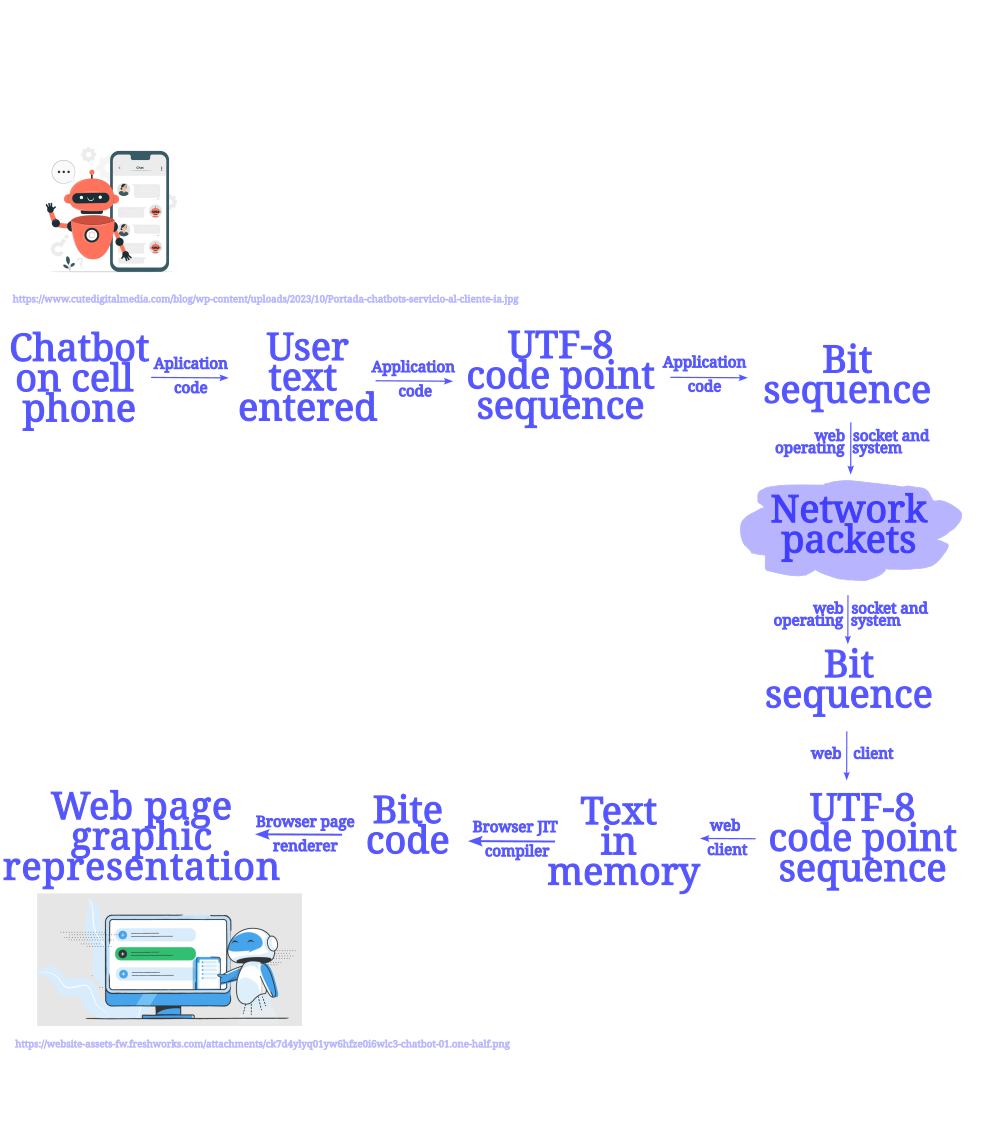
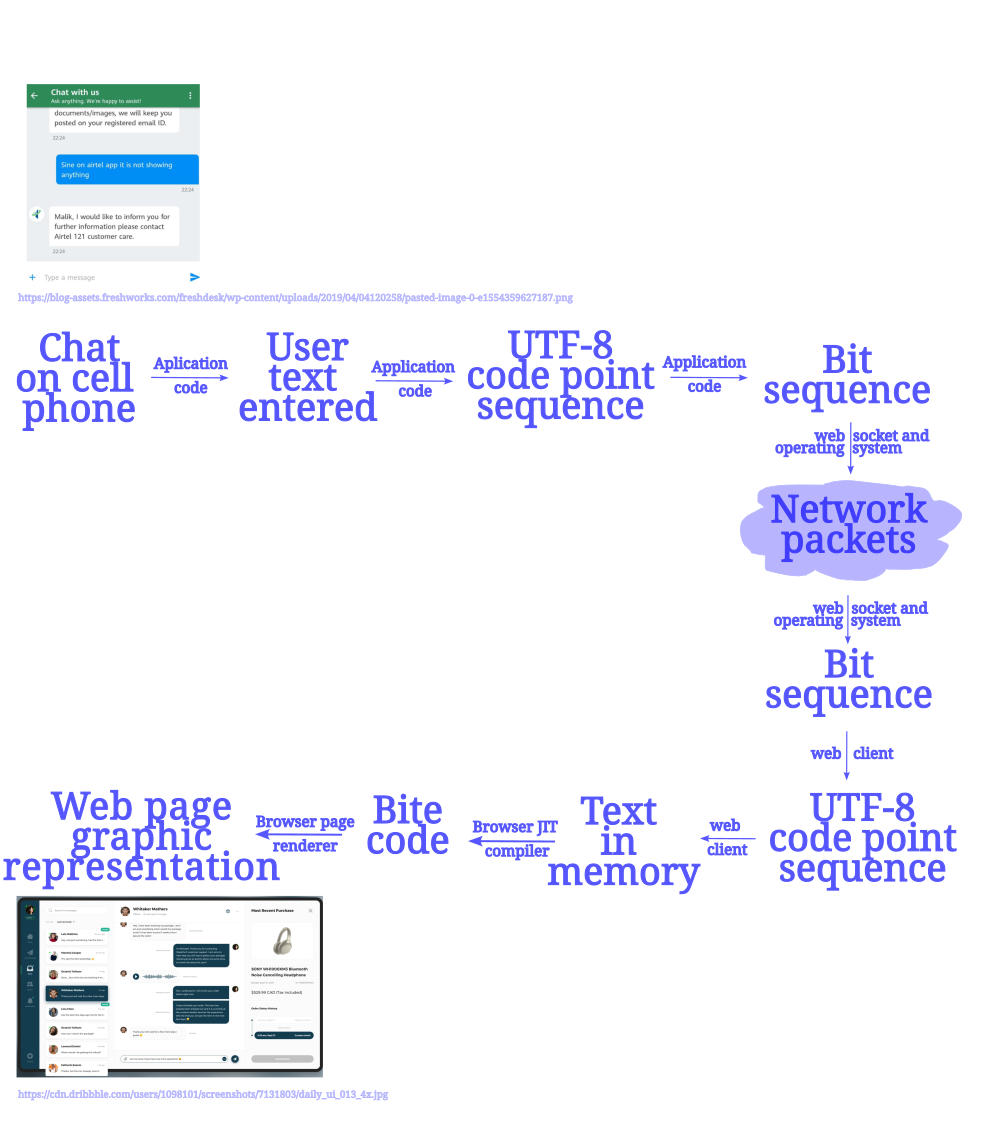
fix(text-journey) chat app instead of chat bot app

Changed region(s): [[0.0, 0.7792, 0.4935, 0.9973], [0.0, 0.0623, 0.5552, 0.3428]]

diff --git a/_site/posts/HowToWriteAnyLanguage/index.html b/_site/posts/HowToWriteAnyLanguage/index.html
@@ -253,11 +253,11 @@ div.csl-indent {
 <p>The text encodings address the challenge of writing effectively in binary. Text consists of a sequence of characters, usually stored in contiguous memory. The encoding schema must also address the identification of character boundaries when all the program sees is endless zeros and ones.</p>
 <section id="a-journey-from-text-to-bits-and-back" class="level3">
 <h3 class="anchored" data-anchor-id="a-journey-from-text-to-bits-and-back">A Journey from text to bits and back</h3>
-<p>To illustrate the modern context in which we process text let’s consider a chat bot application in a mobile device, see the Figure 2 below. Text is entered on the mobile device through a virtual keyboard, rendered on screen, transformed ultimately into a byte stream with an UTF-8 encoding and sent through the wire/air using Internet protocols. On the receiving end, the bytes of zeros and ones are decoded into UTF-8, further transformed if necessary, interpreted using the indicated language and then displayed on the computer screen of the Browser used by the Customer Support agent to interact with the customer.</p>
+<p>To illustrate the modern context in which we process text let’s consider a chat application for customer support in a mobile device, see the Figure 2 below. Text is entered on the mobile device through a virtual keyboard, rendered on screen, transformed ultimately into a byte stream with an UTF-8 encoding and sent through the wire/air using Internet protocols. On the receiving end, the bytes of zeros and ones are decoded into UTF-8, further transformed if necessary, interpreted using the indicated language and then displayed on the computer screen of the Browser used by the Customer Support agent to interact with the customer.</p>
 <div class="quarto-figure quarto-figure-center">
 <figure class="figure">
 <p><img src="text_journey.png" class="img-fluid figure-img"></p>
-<figcaption class="figure-caption">Figure 2. The journey of a text message entered in a chat bot application in a mobile device to its destination in a computer screen of a customer support agent.</figcaption>
+<figcaption class="figure-caption">Figure 2. The journey of a text message entered in a chat application in a mobile device to its destination in a computer screen of a customer support agent. Text does the same journey in the opposite direction when the support agent responds.</figcaption>
 </figure>
 </div>
 <p>Text encoding is a mapping from the code points to some efficient way to write text in binary. A fixed bit width for each character would simplify parsing characters within some text sequence and it would make character boundaries trivial to infer, however, it would waste much space when representing the small ASCII characters. On the other side if we choose a variable bit width then space would be saved with the small values but an end-of-character marker would be required, also adding extra space and complexity.</p>

diff --git a/docs/posts/HowToWriteAnyLanguage/index.html b/docs/posts/HowToWriteAnyLanguage/index.html
@@ -253,11 +253,11 @@ div.csl-indent {
 <p>The text encodings address the challenge of writing effectively in binary. Text consists of a sequence of characters, usually stored in contiguous memory. The encoding schema must also address the identification of character boundaries when all the program sees is endless zeros and ones.</p>
 <section id="a-journey-from-text-to-bits-and-back" class="level3">
 <h3 class="anchored" data-anchor-id="a-journey-from-text-to-bits-and-back">A Journey from text to bits and back</h3>
-<p>To illustrate the modern context in which we process text let’s consider a chat bot application in a mobile device, see the Figure 2 below. Text is entered on the mobile device through a virtual keyboard, rendered on screen, transformed ultimately into a byte stream with an UTF-8 encoding and sent through the wire/air using Internet protocols. On the receiving end, the bytes of zeros and ones are decoded into UTF-8, further transformed if necessary, interpreted using the indicated language and then displayed on the computer screen of the Browser used by the Customer Support agent to interact with the customer.</p>
+<p>To illustrate the modern context in which we process text let’s consider a chat application for customer support in a mobile device, see the Figure 2 below. Text is entered on the mobile device through a virtual keyboard, rendered on screen, transformed ultimately into a byte stream with an UTF-8 encoding and sent through the wire/air using Internet protocols. On the receiving end, the bytes of zeros and ones are decoded into UTF-8, further transformed if necessary, interpreted using the indicated language and then displayed on the computer screen of the Browser used by the Customer Support agent to interact with the customer.</p>
 <div class="quarto-figure quarto-figure-center">
 <figure class="figure">
 <p><img src="text_journey.png" class="img-fluid figure-img"></p>
-<figcaption class="figure-caption">Figure 2. The journey of a text message entered in a chat bot application in a mobile device to its destination in a computer screen of a customer support agent.</figcaption>
+<figcaption class="figure-caption">Figure 2. The journey of a text message entered in a chat application in a mobile device to its destination in a computer screen of a customer support agent. Text does the same journey in the opposite direction when the support agent responds.</figcaption>
 </figure>
 </div>
 <p>Text encoding is a mapping from the code points to some efficient way to write text in binary. A fixed bit width for each character would simplify parsing characters within some text sequence and it would make character boundaries trivial to infer, however, it would waste much space when representing the small ASCII characters. On the other side if we choose a variable bit width then space would be saved with the small values but an end-of-character marker would be required, also adding extra space and complexity.</p>

diff --git a/_site/index.html b/_site/index.html
@@ -183,7 +183,7 @@ ul.task-list li input[type="checkbox"] {
     </div>
 </div>
 <div class="list quarto-listing-default">
-<div class="quarto-post image-right" data-index="0" data-categories="text,C++,Unicode,Rust,R" data-listing-date-sort="1737442800000" data-listing-file-modified-sort="1738730065975" data-listing-date-modified-sort="NaN" data-listing-reading-time-sort="28">
+<div class="quarto-post image-right" data-index="0" data-categories="text,C++,Unicode,Rust,R" data-listing-date-sort="1737442800000" data-listing-file-modified-sort="1738731378257" data-listing-date-modified-sort="NaN" data-listing-reading-time-sort="28">
 <div class="thumbnail">
 <p><a href="./posts/HowToWriteAnyLanguage/index.html"> <p class="card-img-top"><img src="https://neuroflash.com/wp-content/uploads/2022/09/feature-image-automatic-text-editor-online.jpg"  class="thumbnail-image card-img"/></p> </a></p>
 </div>

diff --git a/docs/index.html b/docs/index.html
@@ -183,7 +183,7 @@ ul.task-list li input[type="checkbox"] {
     </div>
 </div>
 <div class="list quarto-listing-default">
-<div class="quarto-post image-right" data-index="0" data-categories="text,C++,Unicode,Rust,R" data-listing-date-sort="1737442800000" data-listing-file-modified-sort="1738730065975" data-listing-date-modified-sort="NaN" data-listing-reading-time-sort="28">
+<div class="quarto-post image-right" data-index="0" data-categories="text,C++,Unicode,Rust,R" data-listing-date-sort="1737442800000" data-listing-file-modified-sort="1738731378257" data-listing-date-modified-sort="NaN" data-listing-reading-time-sort="28">
 <div class="thumbnail">
 <p><a href="./posts/HowToWriteAnyLanguage/index.html"> <p class="card-img-top"><img src="https://neuroflash.com/wp-content/uploads/2022/09/feature-image-automatic-text-editor-online.jpg"  class="thumbnail-image card-img"/></p> </a></p>
 </div>
